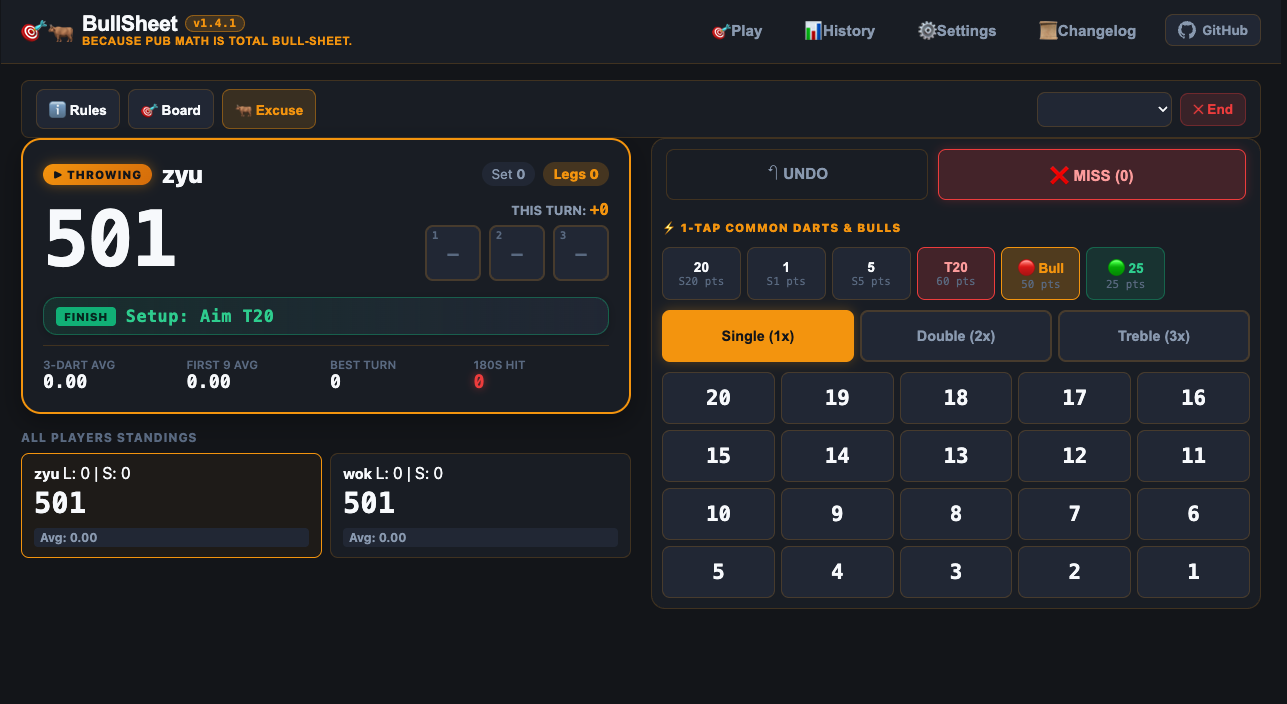
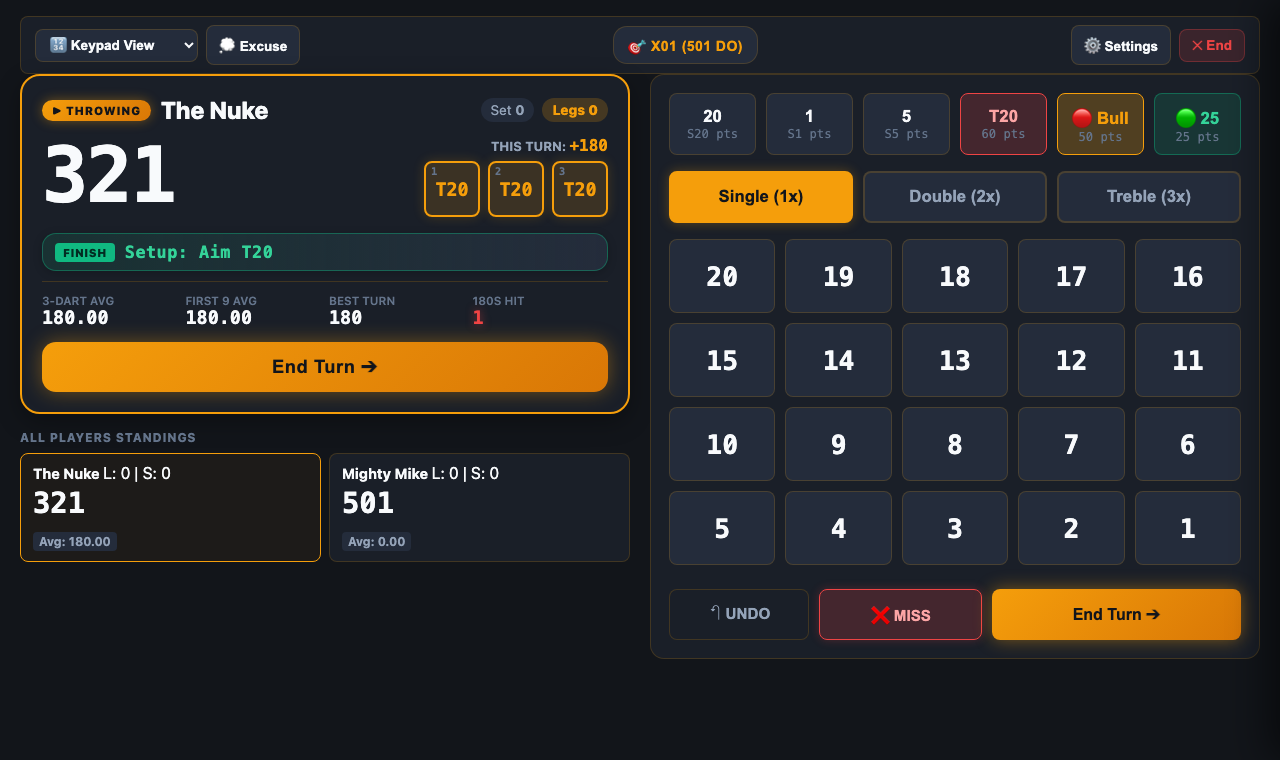
docs: refresh README and mobile screenshots

Changed region(s): [[0.0, 0.0, 1.0, 0.875], [0.9688, 0.4375, 1.0, 0.5], [0.625, 0.0312, 0.6875, 0.0625]]

diff --git a/README.md b/README.md
@@ -2,130 +2,56 @@
 
 > *Because pub math is total bull-sheet.*
 
-A darts scoreboard web app that runs in your browser. No ads, no accounts, no install required. Works offline once loaded.
+A darts scoreboard for matches and practice on phones, tablets, and desktops. No ads, no account required and no telemetry collected.
 
 <p align="center">
   <strong>🎯 <a href="https://ziyuonmain.github.io/bull-sheet/">Play BullSheet</a> 🎯</strong>
 </p>
 
-Designed to run on a phone or tablet at the oche. Or honestly, a laptop on the kitchen table.
+## Highlights
 
-`<rant>` Mostly vibe-coded in an evening, because every other darts app insists on showing you endless 30-second ads with an "x" button harder to find than Waldo — all before you can subtract 180 (or in my case, 26) from 501. `</rant>`
+- **Choose how to score:** switch between the interactive dartboard, speed keypad, and numpad.
+- **Play solo or with friends:** ten game modes, training drills, and five bot skill levels.
+- **Keep your match records:** review stats and high turns, undo darts, import or export history, and share a match card.
+- **Make it yours:** four themes and an installable PWA. Match data stays local, and play works offline after the first load.
+- **Extras:** X01 checkout suggestions, announcer voice packs, and a pub excuse generator for missed darts.
 
----
+## Screenshots
 
-## 📸 Screenshots
+Two views from the same X01 match: landscape with the dartboard and portrait with the numpad.
 
-> For more examples, check out `assets/screenshots/`, or just start playing!
-
-| Keypad Buttons | Interactive Dartsboard |
+| Landscape · dartboard | Portrait · numpad |
 | :---: | :---: |
-| <img src="assets/screenshots/landscape/x01_keypad.png" alt="BullSheet Pro Speed Keypad" width="100%" /> | <img src="assets/screenshots/landscape/x01_dartsboard.png" alt="Interactive SVG Dartboard" width="100%" /> |
+| <img src="assets/screenshots/landscape/x01_dartsboard.png" alt="Landscape X01 match with the interactive dartboard" width="100%" /> | <img src="assets/screenshots/portrait/x01_numpad.png" alt="Portrait X01 match with the dart numpad" width="390" /> |
 
-| History Stats | Various Themes |
-| :---: | :---: |
-| <img src="assets/screenshots/landscape/history_top.png" alt="Lifetime Stats & Match Log" width="100%" /> | <img src="assets/screenshots/portrait/settings_excel.png" alt="Match Setup and Game Modes" width="50%" /> |
+### Match history
 
----
+An example of the local match log and player stats:
 
-## ✨ What It Does
+![Match history overview with sample match results and player statistics](assets/screenshots/landscape/history_top.png)
 
-### 10 Game Modes
-
-| Mode | What It Is |
-| :--- | :--- |
-| **X01** | 101 / 301 / 501 (default) / 701 with configurable In/Out rules (Straight In, Double Out, etc.), Legs & Sets |
-| **Cricket** | Standard and Cutthroat, with marks-per-round tracking |
-| **Split Score** | Halve-It — miss your target, lose half your score |
-| **Killer** | Party game: claim a double, gain killer status, hunt opponents' lives |
-| **Elimination** | Beat the previous player's 3-dart total or lose a life |
-| **Shanghai** | Sequential rounds, instant win if you hit single + double + treble in one turn |
-| **Around the Clock** | Race from 1 → 20 → Bull, with double/treble jumps |
-| **Bob's 27** | The classic doubles training drill (start at 27, hit your doubles or lose points) |
-| **Highscore** | Fixed-round scoring practice (5, 7, or 10 rounds) |
-| **Shooter** | Random target accuracy drill |
-
-### Two Input Methods
-- **Pro Speed Keypad** — Quick-tap buttons for common scores (20, 1, 5, T20, Bull, 25, Miss) with multiplier toggles (Double, Treble). Fast enough for real match play.
-- **Interactive SVG Dartboard** — Tap directly on the board. Highlights checkout routes during X01 finishes.
-
-Toggle between them mid-game with the 🎯 button.
-
-### Caller Voice Packs
-Three pre-recorded audio caller packs with score announcements:
-- **🎙 Russ Bray** ("The Voice")
-- **🎯 George Noble**
-- **🎩 British Referee**
-
-Volume control and mute toggle in settings.
-
-### AI Opponents
-Five bot difficulty profiles for solo practice:
-
-| Bot | Skill |
-| :--- | :--- |
-| 🤡 Beginner | Your mate who's "never played before" |
-| 🍺 Casual | Pub league regular |
-| 📊 Tactician | Plays the percentages |
-| 🎯 Semi-Pro | County-level |
-| 👑 Master | Not fun to play against |
-### Other Stuff
-
-- **Save your mates** — Add regulars, tap to add them to the lineup
-- **Match history** — Local match log with 3-dart averages, 180 counts, and high turns
-- **Match card export** — Generates a shareable PNG summary of the match
-- **History import/export** — Backup and restore match data as JSON
-- **Rules reference** — Built-in rules popup for each game mode
-- **Checkout suggestions** — PDC checkout route lookup for X01 finishes
-- **Multi-step undo** — Works across all game modes
-- **4 color themes** — Pub Chalkboard (default), Excel Sheet, PDC Arena (neon), OLED Midnight
-- **Pub excuse generator** — Missed the board? No worries, I got you covered.
-
-  ![Pub Excuses](assets/screenshots/excuse.png)
-
-### Mobile at the Oche (PWA)
-- Installable as a Progressive Web App (Add to Home Screen on mobile browsers)
-- High-contrast, large touch targets designed for phone mounts and kitchen tablets
-- Everything stored locally in `localStorage` — 100% offline-first, no accounts or telemetry
+And for the occasional missed dart:
 
 <p align="center">
-  <img src="assets/screenshots/portrait/home_top.png" alt="Mobile Game Modes" width="23%" />
-  &nbsp;&nbsp;
-  <img src="assets/screenshots/portrait/home_bottom.png" alt="Mobile Match Setup & Lineup" width="23%" />
-  &nbsp;&nbsp;
-  <img src="assets/screenshots/portrait/x01_keypad.png" alt="Mobile Match Play" width="23%" />
-  &nbsp;&nbsp;
-  <img src="assets/screenshots/portrait/x01_dartsboard.png" alt="Mobile Interactive Dartboard" width="23%" />
+  <img src="assets/screenshots/excuse.png" alt="Pub excuse generator showing the gravity excuse" width="420" />
 </p>
 
----
+## Get started
 
-## 💻 Tech Stack
+Add players, choose a game, and start a match. Use the input selector during play to change how you enter darts.
 
-Built with pure web standards — zero frameworks, zero runtime dependencies, zero build steps:
+The app has no runtime dependencies or build step.
 
-- **Logic**: Vanilla ES6+ JavaScript (Modular classes)
-- **UI & Themes**: Semantic HTML5 & CSS3 variables (Dark-mode & oche-contrast)
-- **Dartboard**: Pure SVG with coordinate-based ring and segment hit detection
-- **Audio Engine**: Web Audio API with pre-recorded MP3 caller voice packs
-- **Storage & PWA**: Service Worker cache & `localStorage` (100% offline-first)
-
----
-
-## 🛠 Development & Contributing
+## Development
 
 ```bash
-# Start local dev server (http://localhost:8080)
-npm start
-
-# Run full test suite
-npm test
+npm start       # local server at http://localhost:8080
+npm test        # unit and browser tests
+npm run lint    # ESLint
 ```
 
-For project architecture, test suite organization, and contributor guidelines, see [**CONTRIBUTING.md**](CONTRIBUTING.md).
+See [CONTRIBUTING.md](CONTRIBUTING.md) for project structure and contributor guidance.
 
----
-
-## 📄 License
+## License
 
 [GPL-3.0](LICENSE)

diff --git a/CONTRIBUTING.md b/CONTRIBUTING.md
@@ -19,13 +19,15 @@ bull-sheet/
 ├── eslint.config.js            # ESLint static analysis configuration
 ├── playwright.config.js        # Playwright E2E browser test configuration
 ├── dev_server.js               # Zero-dependency static HTTP dev server
+├── audio/                      # Bundled referee voice clips
+├── assets/screenshots/         # README and app screenshots
 ├── css/
 │   ├── main.css                # Layout, components, and responsive styles
-│   ├── themes.css              # Theme CSS variables (Pub Chalkboard, OLED, etc.)
+│   ├── themes.css              # Theme CSS variables (Pub Chalkboard, Excel, PDC, OLED)
 │   └── animations.css          # Subtle UI transitions
 ├── js/
 │   ├── app.js                  # Main controller and route switcher
-│   ├── audio/                  # Audio caller and procedural sound synthesizer
+│   ├── audio/                  # Audio caller and procedural sound effects
 │   ├── bot/                    # Tactical AI engine and skill profiles
 │   ├── components/             # Dartboard, Keypad, Scoreboard, Match Card
 │   ├── games/                  # Modular game engines (10 modes)
@@ -91,6 +93,7 @@ tests/
 │   ├── bot_engine.test.js     # 5 bot difficulty profiles, accuracy scaling, dart simulation
 │   ├── checkout.test.js       # Complete 170-to-2 checkout paths & bogey number detection
 │   ├── stats_store.test.js    # LocalStorage persistence, lifetime stats, JSON import/export
+│   ├── caller.test.js         # Audio caller behavior and announcement synchronization
 │   ├── changelog.test.js      # CHANGELOG.md markdown structure & parser verification
 │   └── integrity.test.js      # Static assets (audio/icons) & Service Worker cache validation
 └── e2e/
@@ -103,8 +106,18 @@ When adding new game modes or components, please add corresponding unit tests in
 
 ## ➕ Adding a New Game Engine
 
-All game engines are modular ES6 classes in `js/games/`.
-Standard boilerplate for a new game engine:
+Game engines are modular ES6 classes in `js/games/`. Implement the shared contract:
+
+- `constructor(config)` initializes players and match state.
+- `recordDart(dart)` records an action and returns its result.
+- `finishTurn()` advances play and clears the current visit.
+- `undo()` restores the exact prior state.
+- `getActivePlayer()` returns the active player.
+- `isMatchOver` and `winner` expose match completion.
+
+Before mutating state in `recordDart()` or `finishTurn()`, save a history snapshot. `undo()` must restore player scores, turns, and match flags. For elimination games, skip eliminated players when choosing and advancing the active player. Keep non-X01 statistics separate from X01 averages and checkout metrics.
+
+Use this shape as a starting point:
 
 ```javascript
 export class CustomGame {
@@ -118,7 +131,6 @@ export class CustomGame {
   }
 
   getActivePlayer() { return this.players[this.activePlayerIdx]; }
-  getNextPlayer() { ... }
   recordDart(dart) { ... }
   finishTurn() { ... }
   undo() { ... }
@@ -155,9 +167,8 @@ npm run bump major
 ### GitHub Actions Auto-Release & CI Pipeline
 When code is pushed or merged into `main`:
 - Changed files are automatically detected to run only affected checks in parallel.
-- When an incremented version is detected, GitHub Actions automatically creates and pushes the annotated git tag `vX.Y.Z`.
-- Automatically publishes a GitHub Release using the release notes from `CHANGELOG.md`.
-- Automatically deploys the updated app to GitHub Pages.
+- After successful CI on `main`, GitHub Actions creates and pushes an annotated `vX.Y.Z` tag when that version is not tagged yet, then publishes a GitHub Release using `CHANGELOG.md`.
+- GitHub Pages deploys after successful CI when app files changed. A repository owner can also start a manual deployment from Actions.
 
 ```mermaid
 flowchart TD
@@ -174,8 +185,8 @@ flowchart TD
     E2E --> CIStatus
     
     subgraph Deployment & Publishing
-        CIStatus --> Release[GitHub Release & Auto-Tag]
-        CIStatus --> Deploy[Deploy to GitHub Pages]
+    CIStatus --> Release[Create release if version tag is missing]
+    CIStatus --> Deploy[Deploy changed app files to GitHub Pages]
     end
 ```
 

diff --git a/docs/AGENTIC_WORKFLOW.md b/docs/AGENTIC_WORKFLOW.md
@@ -160,26 +160,16 @@ When rebasing or resolving merge conflicts:
 
 ## 5. Automated Quality Gates
 
-Before concluding any task or pushing to `main`, all 4 quality gates must pass:
+Before committing or pushing, run the full test suite and linter:
 
 ```bash
-# Gate 1: Code Quality & ESLint Linter
-npm run lint
-
-# Gate 2: Unit & Asset/Service Worker Integrity Tests
-npm run test:unit
-
-# Gate 3: Headless Playwright Browser E2E Tests
-npm run test:e2e
-
-# Gate 4: Combined Full Test Suite
-npm test
+npm test && npm run lint
 ```
 
-| Quality Gate | Tool / Runner | Success Criteria |
+`npm test` runs the Node.js unit tests and Playwright browser tests. The unit suite also checks service-worker asset integrity and changelog parsing. For focused development, run `npm run test:unit` or `npm run test:e2e` separately.
+
+| Check | Tool / Runner | Success Criteria |
 | :--- | :--- | :--- |
-| **Linting** | ESLint (`eslint .`) | 0 errors, 0 warnings |
-| **Unit Tests** | Node.js Test Runner (`node --test`) | 100% pass across all 8 suites |
-| **Cache Integrity** | `integrity.test.js` | All cached assets exist on disk |
-| **Changelog Integrity** | `changelog.test.js` | `CHANGELOG.md` parses to valid HTML matching current version |
-| **E2E Browser Tests** | Playwright (`playwright test`) | 100% pass across mobile & desktop viewports |
+| **Unit & integrity tests** | Node.js Test Runner (`node --test`) | All configured unit tests pass; cached assets exist and the changelog parses |
+| **Browser tests** | Playwright (`playwright test`) | All configured end-to-end flows pass |
+| **Linting** | ESLint (`eslint .`) | No lint errors or warnings |

diff --git a/CHANGELOG.md b/CHANGELOG.md
@@ -7,6 +7,27 @@ and this project adheres to [Semantic Versioning](https://semver.org/spec/v2.0.0
 
 ---
 
+## [Unreleased] - 2026-10-07
+### Casual Player UX Review
+#### Added
+- Added a match-summary action to undo the winning dart and remove that result from local match history.
+
+#### Changed
+- X01 busts now end the visit and move play to the next player.
+- Hit sounds now distinguish bullseyes, trebles, and ordinary segments.
+- Normalized all referee clips across the three caller packs to bring their playback levels closer together.
+- Updated in-app rules to match the available X01 scores, leg formats, life counts, and mode scoring.
+- Added themed target and progress styling to Around the Clock.
+- Refreshed the README feature guide and screenshots for desktop, mobile input views, match history, and Excel theme settings.
+- Clarified game rules, engine undo requirements, and local development commands in the documentation.
+- Shortened the mobile drawer repository link label to “GitHub.”
+
+#### Fixed
+- Corrected Bob's 27 accuracy, Split Score hit/best-round/halved-round, Elimination best-visit, and Shanghai instant-win summary values.
+- X01 first-to-5 and first-to-7 matches now continue to the selected leg count.
+- Locked double-in darts now use their effective score for single-dart and visit-total announcements.
+- Elimination ties now preserve a life, and Killer qualification requires the highlighted double.
+
 ## [1.5.2] - 2026-09-01
 ### 📜 Version Badge Direct Changelog Links & Settings About Integration
 #### Added
